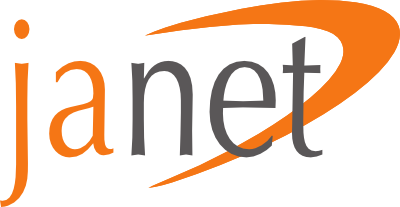
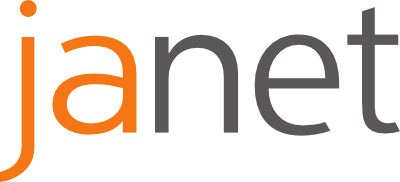
* Remodelled the about page and updated imagery

diff --git a/Eduroam App3/www/info.html b/Eduroam App3/www/info.html
@@ -1,26 +1,43 @@
 <html xmlns="http://www.w3.org/1999/xhtml">
-<head>
-<meta http-equiv="content-type" content="text/html;charset=utf-8"/>
-<link href="info.css" rel="stylesheet" type="text/css"/>
-
-
-<title>Info</title>
-</head>
-
-<body>
-<a class='imglink' href='http://www.ja.net/'>
-    <img src='janet2x.png' alt='JANET (UK)' />
-</a>
-<div id='maintext'>
-	eduroam Companion is an application written by <a class='textlink' href='http://ashbrowning.com'>Ashley Browning</a> of the <a class='textlink' href='http://www.soton.ac.uk/'>University of Southampton</a> for <a class='textlink' href='http://www.ja.net/'>JANET(UK).
-</div>
-<hr/>
-<div id='maintext'>
-        eduroam and the eduroam logo are trademarks or registered trademarks of TERENA, used with permission.
-</div>
-<hr/>
-<a class='imglink' href='http://www.soton.ac.uk/'>
-<img src='uos2x.png' alt='University of Southampton' />
-</a>
-
-</body>
+    <head>
+        <meta http-equiv="content-type" content="text/html;charset=utf-8"/>
+        <link href="info.css" rel="stylesheet" type="text/css"/>
+        
+        
+        <title>Info</title>
+    </head>
+    
+    <body>
+        <a class="imglink" href="http://www.ja.net/">
+            <img src="janet2x.png" alt="Janet" style="margin-bottom: 20px;" />
+        </a>
+        <div id="about" onclick="javascript:document.getElementById('maintext').style.display='block';document.getElementById('copytext').style.display='none';document.getElementById('eduroamis').style.display='none';"><hr /><b>About this app</b><hr />
+            <div id="maintext" style="display:none";>
+                eduroam Companion is an application written by <a class="textlink" href="http://ashbrowning.com">Ashley Browning</a> of the <a class="textlink" href="http://www.soton.ac.uk/">University of Southampton</a> for <a class="textlink" href="http://www.ja.net/">Janet.</a>
+                <br /><br />
+                <a class="imglink" href="http://www.soton.ac.uk/">
+                    <img src="uos2x.png" alt="University of Southampton" />
+                </a>
+            </div>
+        </div>
+        
+        <div id="copyright" onclick="javascript:document.getElementById('copytext').style.display='block';document.getElementById('maintext').style.display='none';document.getElementById('eduroamis').style.display='none';"><hr /><b>Copyright</b><hr />
+            <div id="copytext" style="display:none";>
+                <a class="textlink" href="http://www.eduroam.org/">eduroam</a> and the eduroam logo are trademarks or registered trademarks of TERENA, used with permission.
+            </div>
+        </div>
+        
+        <div id="whatis" onclick="javascript:document.getElementById('eduroamis').style.display='block';document.getElementById('maintext').style.display='none';document.getElementById('copytext').style.display='none';"><hr /><b>About eduroam</b><hr />
+            <div id="eduroamis">
+                <a class="textlink" class="imglink" href="http://www.soton.ac.uk/">
+                    <img src="eduroam2x.png" alt="eduroam" />
+                </a>
+                <br />
+                <a class="textlink" href="http://www.eduroam.org/">eduroam</a> (<b>edu</b>cation <b>roam</b>ing) is the secure, world-wide roaming access service developed for the international research and education community.<br />
+                <br />
+                eduroam allows students, researchers and staff from participating institutions to obtain Internet connectivity across campus and when visiting other participating institutions by simply opening their laptop.
+            </div>
+        </div>
+        
+    </body>
+</html>

diff --git a/Eduroam App3/www/info.css b/Eduroam App3/www/info.css
@@ -6,7 +6,7 @@ h1 {
 }
 
 body {
-	margin-top: 6.25%;
+	margin-top: 10%;
 	margin-right: 6.25%;
 	margin-left: 6.25%;
 	text-align: center;
@@ -16,8 +16,8 @@ body {
 }
 
 hr {
-	margin-bottom: 20px;
-	margin-top: 20px;
+	margin-bottom: 6px;
+	margin-top: 6px;
 	text-align: center;
 	max-width: 100%;
 	border-style: solid;
@@ -42,7 +42,7 @@ img {
 	max-width: 200;
 }
 
-#maintext {
+#maintext, #eduroamis, #copytext {
 	font-size: 17px;
 }
 
